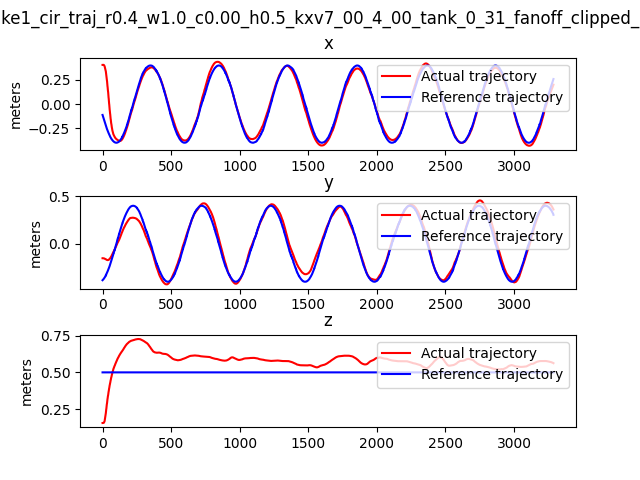
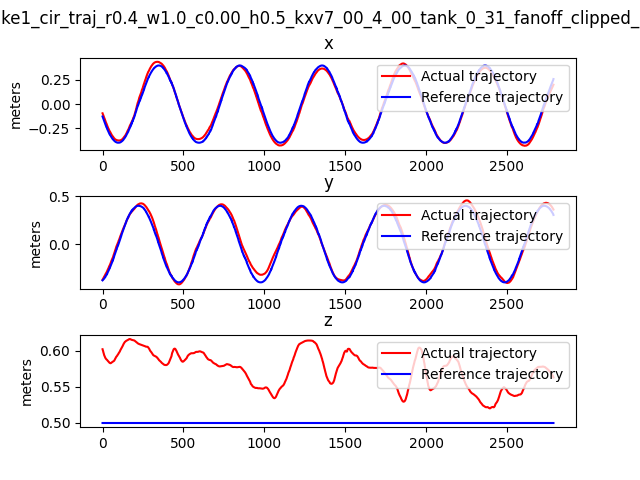
local changes

diff --git a/GP/gp_advanced/plot_trajectory_ref.py b/GP/gp_advanced/plot_trajectory_ref.py
@@ -36,7 +36,7 @@ home_path = home_path + 'circle_data/'
 
 # bag_path = home_path + '28_07_2024_take1_cir_traj_r0.4_w1.0_c0.00_h0.5_kxv7_00_4_00_tank_0_31_fanoff_clipped_new'
 #(500, 800)
-# bag_path = home_path + '28_07_2024_take1_cir_traj_r0.4_w1.0_c0.00_h0.5_kxv7_00_4_00_tank_0_31_fanon_clipped_new'
+bag_path = home_path + '28_07_2024_take1_cir_traj_r0.4_w1.0_c0.00_h0.5_kxv7_00_4_00_tank_0_31_fanon_clipped_new'
 #(500, 800)
 # bag_path = home_path + '28_07_2024_take1_cir_traj_r0.4_w1.0_c0.00_h0.5_kxv14_81_7_09_tank_0_31_fanon_clipped_new'
 #(500, 800)
@@ -59,7 +59,7 @@ home_path = home_path + 'circle_data/'
 # bag_path = home_path + 'cir_traj_r0.2_w1.0_c0.60_h0.5_kxv74_clipped_new'
 # (500,500)
 
-bag_path = home_path + 'cir_traj_r0.2_w1.0_c0.80_h0.5_kxv74_clipped_new'
+# bag_path = home_path + 'cir_traj_r0.2_w1.0_c0.80_h0.5_kxv74_clipped_new'
 # (800, len-500)
 
 
@@ -89,7 +89,7 @@ bag_path = home_path + 'cir_traj_r0.2_w1.0_c0.80_h0.5_kxv74_clipped_new'
 # bag_path = '/Users/albusfang/Coding Projects/gp_ws/Gaussian Process/GP/data_prep/cir_traj_r0.4_w2_c0.40_h0.4_fanhigh'
 #(1200, len(x_data)-700)
 home_path = home_path + 'prev_data/'
-bag_path = home_path + 'cir_traj_r0.3_w1.5_c00.4_h0.4_fanhigh'
+# bag_path = home_path + 'cir_traj_r0.3_w1.5_c00.4_h0.4_fanhigh'
 #(1600, len(x_data)-1200)
 # bag_path = home_path + 'cir_traj_r0.3_w1.5_c0.40_h0.4_fanhigh'
 #(1400, len(x_data)-900), (2500, len(x_data)-2500)
@@ -215,13 +215,18 @@ timestamps = []
 x_ideal = []
 y_ideal = []
 z_ideal = []
-
+pos_vector = []
+vel_vector = []
+acc_vector = []
 with Reader(bag_path) as reader:
     for item in reader.connections:
         print(item.topic, item.msgtype)
     for item, timestamp, rawdata in reader.messages():
         if item.topic == topic_name:
             msg = typestore.deserialize_cdr(rawdata, item.msgtype)
+            pos_vector.append(msg.pos)
+            vel_vector.append(msg.vel)
+            acc_vector.append(msg.acc)
             x_data.append(msg.pos[0])
             y_data.append(msg.pos[1])
             z_data.append(-msg.pos[2])
@@ -248,10 +253,11 @@ with Reader(bag_path) as reader:
 # print("z max: ", max(z_data))
 # print("z min: ", min(z_data))
 assert len(x_data) == len(y_data) == len(z_data), "Lengths of the lists are not the same."
-cutoff = len(x_data) - 1200
-threshold = 1600
-
-
+cutoff = len(x_data) - 800
+threshold = 500
+np.save("pos_vec.npy", np.array(pos_vector[threshold:cutoff]))
+np.save("vel_vec.npy", np.array(vel_vector[threshold:cutoff]))
+np.save("acc_vec.npy", np.array(acc_vector[threshold:cutoff]))
 print("cutoff, threshold = ", cutoff, threshold)
 print("data set size = ",  cutoff - threshold)
 # indices = np.arange(1, len(x_data) + 1)
@@ -269,7 +275,7 @@ if save :
 x_t = x_ideal = np.array(x_ideal[threshold:cutoff])
 y_t = y_ideal = np.array(y_ideal[threshold:cutoff])
 z_t = z_ideal = np.array(z_ideal[threshold:cutoff])
-if save : 
+if save :
     stacked_array = np.column_stack((x_t,y_t,z_t))
     np.save('compare_trajectory/figure8/ideal_trajectory_eight_traj_r0.4_w1_c080_h0.5_kxv7_00_4_00_fanoff.npy',stacked_array)
 # Scatter plot

diff --git a/GP/gp_advanced/simulation/test_tune_controller_gp.py b/GP/gp_advanced/simulation/test_tune_controller_gp.py
@@ -1,5 +1,7 @@
 import time
-import jax
+import jax, jaxlib
+# print("jax: ", jax.__version__)
+# print("jaxlib: ", jaxlib.__version__)
 import jax.numpy as np
 from jax import random, grad, jit, lax
 import optax
@@ -10,17 +12,21 @@ import matplotlib.pyplot as plt
 from matplotlib.animation import FFMpegWriter
 plt.rcParams.update({'font.size': 10})
 # gpjax version: '0.8.2'
+import sys
+sys.path.append('./FORESEE/GPJax')
 import gpjax as gpx
+print(gpx.__version__)
 from test_jax_utils import *
 from test_gp_utils import *
 from test_policy import policy
+from jax.experimental import host_callback as hcb
 
-dynamics_type = 'ideal'
+# dynamics_type = 'ideal'
 # dynamics_type = 'noisy'
-# dynamics_type = 'gp'
+dynamics_type = 'gp'
 
-optimizer = 'scipy'
-# optimizer = 'custom_gd'
+# optimizer = 'scipy'
+optimizer = 'custom_gd'
 
 #home_path = '/home/dasc/albus/wind_disturbance_experiment/GP/gp_advanced/'
 home_path = '/Users/albusfang/Coding Projects/gp_ws/Gaussian Process/GP/gp_advanced/'
@@ -38,9 +44,9 @@ horizon = 300 #200
 dt = 0.05 #0.01
 
 # custom optimizer
-iter_adam_custom = 300
-custom_gd_lr_rate = 0.1
-grad_clip = 1.0
+iter_adam_custom = 50
+custom_gd_lr_rate = 0.005
+grad_clip = 100.0
 
 # scipy optimizer
 iter_adam=200 #4000
@@ -157,6 +163,7 @@ def setup_predict_states_gp(file_path1, file_path2, file_path3, gp_train_x, gp_t
             next_states, next_states_cov, disturbance_mean, disturbance_cov = get_next_states_with_gp_sigma_inv_predict( states[:,[h]], control_input, dt, [gp0, gp1, gp2],[sigma0, sigma1, sigma2], gp_train_x, gp_train_y )
             disturbance_means = disturbance_means.at[:,h].set( disturbance_mean[:,0] )
             disturbance_covs = disturbance_covs.at[:,h].set( disturbance_cov[:,0] )
+            ## add uncertainty to periodic disturbance
             key, subkey = jax.random.split(key)
             next_states = next_states + jax.random.normal( subkey, shape=(6,1) ) * jnp.sqrt( next_states_cov )
             states = states.at[:,h+1].set( next_states[:,0] )
@@ -245,6 +252,7 @@ def train_policy_custom(init_state, params_policy, gp_train_x, gp_train_y):
     def body(i, inputs):
         params_policy = inputs
         params_policy_grad = get_future_reward_grad( init_state, params_policy, gp_train_x, gp_train_y )
+        # hcb.id_print(params_policy_grad)
         params_policy_grad = jnp.clip( params_policy_grad, -grad_clip, grad_clip )
         params_policy = params_policy - custom_gd_lr_rate * params_policy_grad
         return params_policy

diff --git a/GP/gp_advanced/simulation/test_policy.py b/GP/gp_advanced/simulation/test_policy.py
@@ -1,8 +1,9 @@
 import jax.numpy as jnp
 from jax import jit, vmap, lax
 import jax
+from jax.experimental import host_callback as hcb
 def state_ref(t):
-    dataset_index = 1
+    dataset_index = 0
     pos, vel, acc = figure8_pos_vel_acc( t, figure8_radius[dataset_index], figure8_angular_vel[dataset_index], figure8_origin_x[dataset_index], figure8_origin_y[dataset_index] )
     return pos.reshape(-1,1), vel.reshape(-1,1), acc.reshape(-1,1)
 # policy_params = [14, 7.4]
@@ -20,10 +21,13 @@ def policy( t, states, policy_params):
 
     kx = policy_params[0]
     kv = policy_params[1]
-
+    
     pos_ref, vel_ref, acc_ref = state_ref(t)
-
+    
     ex = states[0:3] - pos_ref
+    # jax.debug.print( str(ex))
+    hcb.id_print(ex)
+    # jax.debug.print( str(pos_ref.shape))
     # ex = lax.cond( jnp.linalg.norm(ex)>2, lambda z: 2.0 * z / jnp.linalg.norm(z), lambda z: z, ex )
     ev = states[3:6] - vel_ref
     # ev = lax.cond( jnp.linalg.norm(ev)>5, lambda z: 5.0 * z / jnp.linalg.norm(z), lambda z: z, ev )

diff --git a/GP/gp_advanced/simulation/test_gp_utils.py b/GP/gp_advanced/simulation/test_gp_utils.py
@@ -153,6 +153,12 @@ def get_next_states_with_gp_sigma_inv_predict( states, control_inputs, dt, gps, 
 
     pred_mu = jnp.concatenate( (pred_mean0.T, pred_mean1.T, pred_mean2.T), axis=0 ) #3x13
     pred_cov = jnp.concatenate( (pred_std0.T**2, pred_std1.T**2, pred_std2.T**2), axis=0 ) #3x13
+
+    # multiplying by the normalization factor:
+    # norm_factor = 5
+    # pred_mu = pred_mu * norm_factor
+    # pred_cov = pred_cov * (norm_factor ** 2)
+
     ################################################
     ############ bug fix: ########################
     ############ bug: line 52, incompatible shapes control inputs and pred_mu ############
